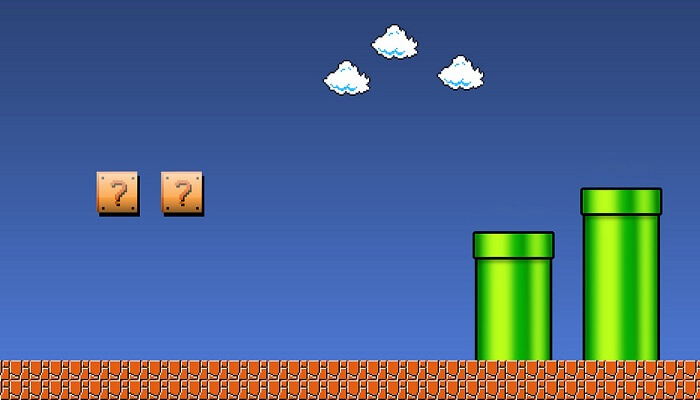
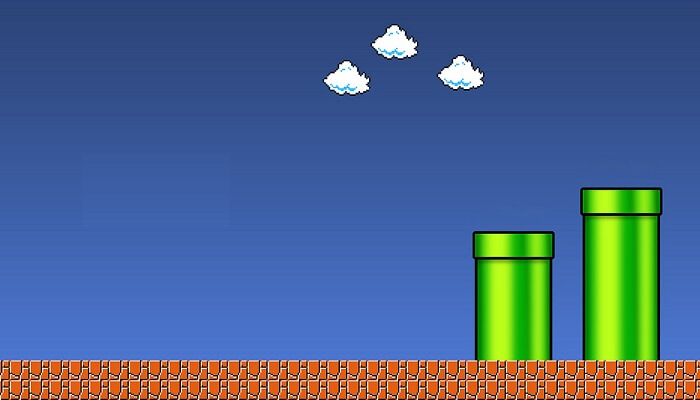
feat score.py

Changed region(s): [[0.12, 0.42, 0.3, 0.54]]

diff --git a/game.py b/game.py
@@ -1,5 +1,6 @@
 from mario import Mario
 from cube import Cube
+from score import Score
 from weed import Weed
 import pygame
 
@@ -12,7 +13,7 @@ WHITE = (255, 255, 255)
 backgroundImage = pygame.image.load("background.png")
 size = (WIDTH, HEIGHT)
 screen = pygame.display.set_mode(size)
-pygame.display.set_caption('PyGame')
+pygame.display.set_caption('Mario')
 
 all_sprites_list = pygame.sprite.Group()
 
@@ -23,19 +24,22 @@ mario = Mario(0, HEIGHT - (60 + 33))
 cube1 = Cube(95, 170)
 cube2 = Cube(160, 170)
 
-cubeG1 = pygame.sprite.Group()
-cubeG1.add(cube1)
-cubeG2 = pygame.sprite.Group()
-cubeG2.add(cube2)
-
 # Weed
 weed1 = Weed(95, 170)
 weed2 = Weed(160, 170)
 
+# Score
+score = Score(WHITE)
 
-all_sprites_list.add(weed1, cube1, weed2, cube2, mario)
+all_sprites_list.add(weed1, cube1, weed2, cube2, mario, score)
 
 carryOn = True
+
+# Collision temp variable
+collideCube1 = False
+collideCube2 = False
+collideWeed1 = False
+collideWeed2 = False
 
 clock = pygame.time.Clock()
 
@@ -56,9 +60,32 @@ while carryOn:
 
     # Handle Collision
     if pygame.sprite.collide_rect(mario, cube1):
-        # all_sprites_list.remove(cube1)
-        # weed1.reveal()
-        print(f"Collision detected")
+        if collideCube1:
+            all_sprites_list.remove(cube1)
+            weed1.reveal = True
+        else:
+            collideCube1 = True
+
+    if pygame.sprite.collide_rect(mario, cube2):
+        if collideCube2:
+            all_sprites_list.remove(cube2)
+            weed2.reveal = True
+        else:
+            collideCube2 = True
+
+    # if pygame.sprite.collide_rect(mario, weed1):
+    #     if collideWeed1:
+    #         all_sprites_list.remove(weed1)
+    #         # mario.score('ADD')
+    #     else:
+    #         collideWeed1 = True
+    #
+    # if pygame.sprite.collide_rect(mario, weed2):
+    #     if collideWeed2:
+    #         all_sprites_list.remove(weed2)
+    #         # mario.score('ADD')
+    #     else:
+    #         collideWeed2 = True
 
     all_sprites_list.update()
     screen.fill(WHITE)
@@ -67,6 +94,6 @@ while carryOn:
 
     pygame.display.flip()
 
-    clock.tick(10)
+    clock.tick(40)
 
 pygame.quit()

diff --git a/frenchflag.py b/frenchflag.py
@@ -1,4 +1,5 @@
 import pygame
+
 pygame.init()
 
 WIDTH = 600
@@ -10,34 +11,30 @@ pygame.display.set_caption('PyGame')
 
 carryOn = True
 
-BLACK   = (0, 0, 0)
-RED     = (255, 0, 0)
-GREEN   = (0, 255, 0)
-WHITE   = (255, 255, 255)
-GREY    = (200, 200, 200)
-BLUE    = (0, 0, 255)
- 
+BLACK = (0, 0, 0)
+RED = (255, 0, 0)
+GREEN = (0, 255, 0)
+WHITE = (255, 255, 255)
+GREY = (200, 200, 200)
+BLUE = (0, 0, 255)
+
 clock = pygame.time.Clock()
- 
+
 while carryOn:
 
     for event in pygame.event.get():
         if event.type == pygame.QUIT:
             carryOn = False
-    
 
     screen.fill(WHITE)
-    
-    #Draw green rectangle in window edge
-    pygame.draw.rect(screen, BLUE, [0, 0, int(WIDTH/3), HEIGHT])
-    pygame.draw.rect(screen, WHITE, [200, 0, int(WIDTH/3), HEIGHT])
-    pygame.draw.rect(screen, RED, [400, 0, int(WIDTH/3), HEIGHT])
 
- 
- 
- 
+    # Draw green rectangle in window edge
+    pygame.draw.rect(screen, BLUE, [0, 0, int(WIDTH / 3), HEIGHT])
+    pygame.draw.rect(screen, WHITE, [200, 0, int(WIDTH / 3), HEIGHT])
+    pygame.draw.rect(screen, RED, [400, 0, int(WIDTH / 3), HEIGHT])
+
     pygame.display.flip()
-     
+
     clock.tick(60)
- 
+
 pygame.quit()

diff --git a/score.py b/score.py
@@ -1,0 +1,26 @@
+import pygame
+
+WHITE = (0, 0, 255)
+
+
+class Score(pygame.sprite.Sprite):
+    # This class represents a car. It derives from the "Sprite" class in Pygame.
+
+    def __init__(self, color, width=200, height=50):
+        # Call the parent class (Sprite) constructor
+        super().__init__()
+
+        # Pass in the color of the car, and its x and y position, width and height.
+        # Set the background color and set it to be transparent
+        self.image = pygame.Surface([width, height])
+        self.image.fill(WHITE)
+        self.image.set_colorkey(WHITE)
+
+        # Draw the car (a rectangle!)
+        pygame.draw.rect(self.image, color, [10, 10, width, height], 1)
+
+        # Instead we could load a proper picture of a car...
+        # self.image = pygame.image.load("car.png").convert_alpha()
+
+        # Fetch the rectangle object that has the dimensions of the image.
+        self.rect = self.image.get_rect()

diff --git a/weed.py b/weed.py
@@ -15,9 +15,16 @@ class Weed(pygame.sprite.Sprite):
         self.x = x
         self.y = y
 
-    def reveal(self):
-        self.y = 400 - (self.height + 33)
+        self.reveal = False
 
     def update(self):
+        if self.reveal:
+            self.x += 10
+            self.y = 400 - (self.height + 33)
+
+            if self.x > 700:
+                self.kill()
+
         self.rect.x = self.x
         self.rect.y = self.y
+
